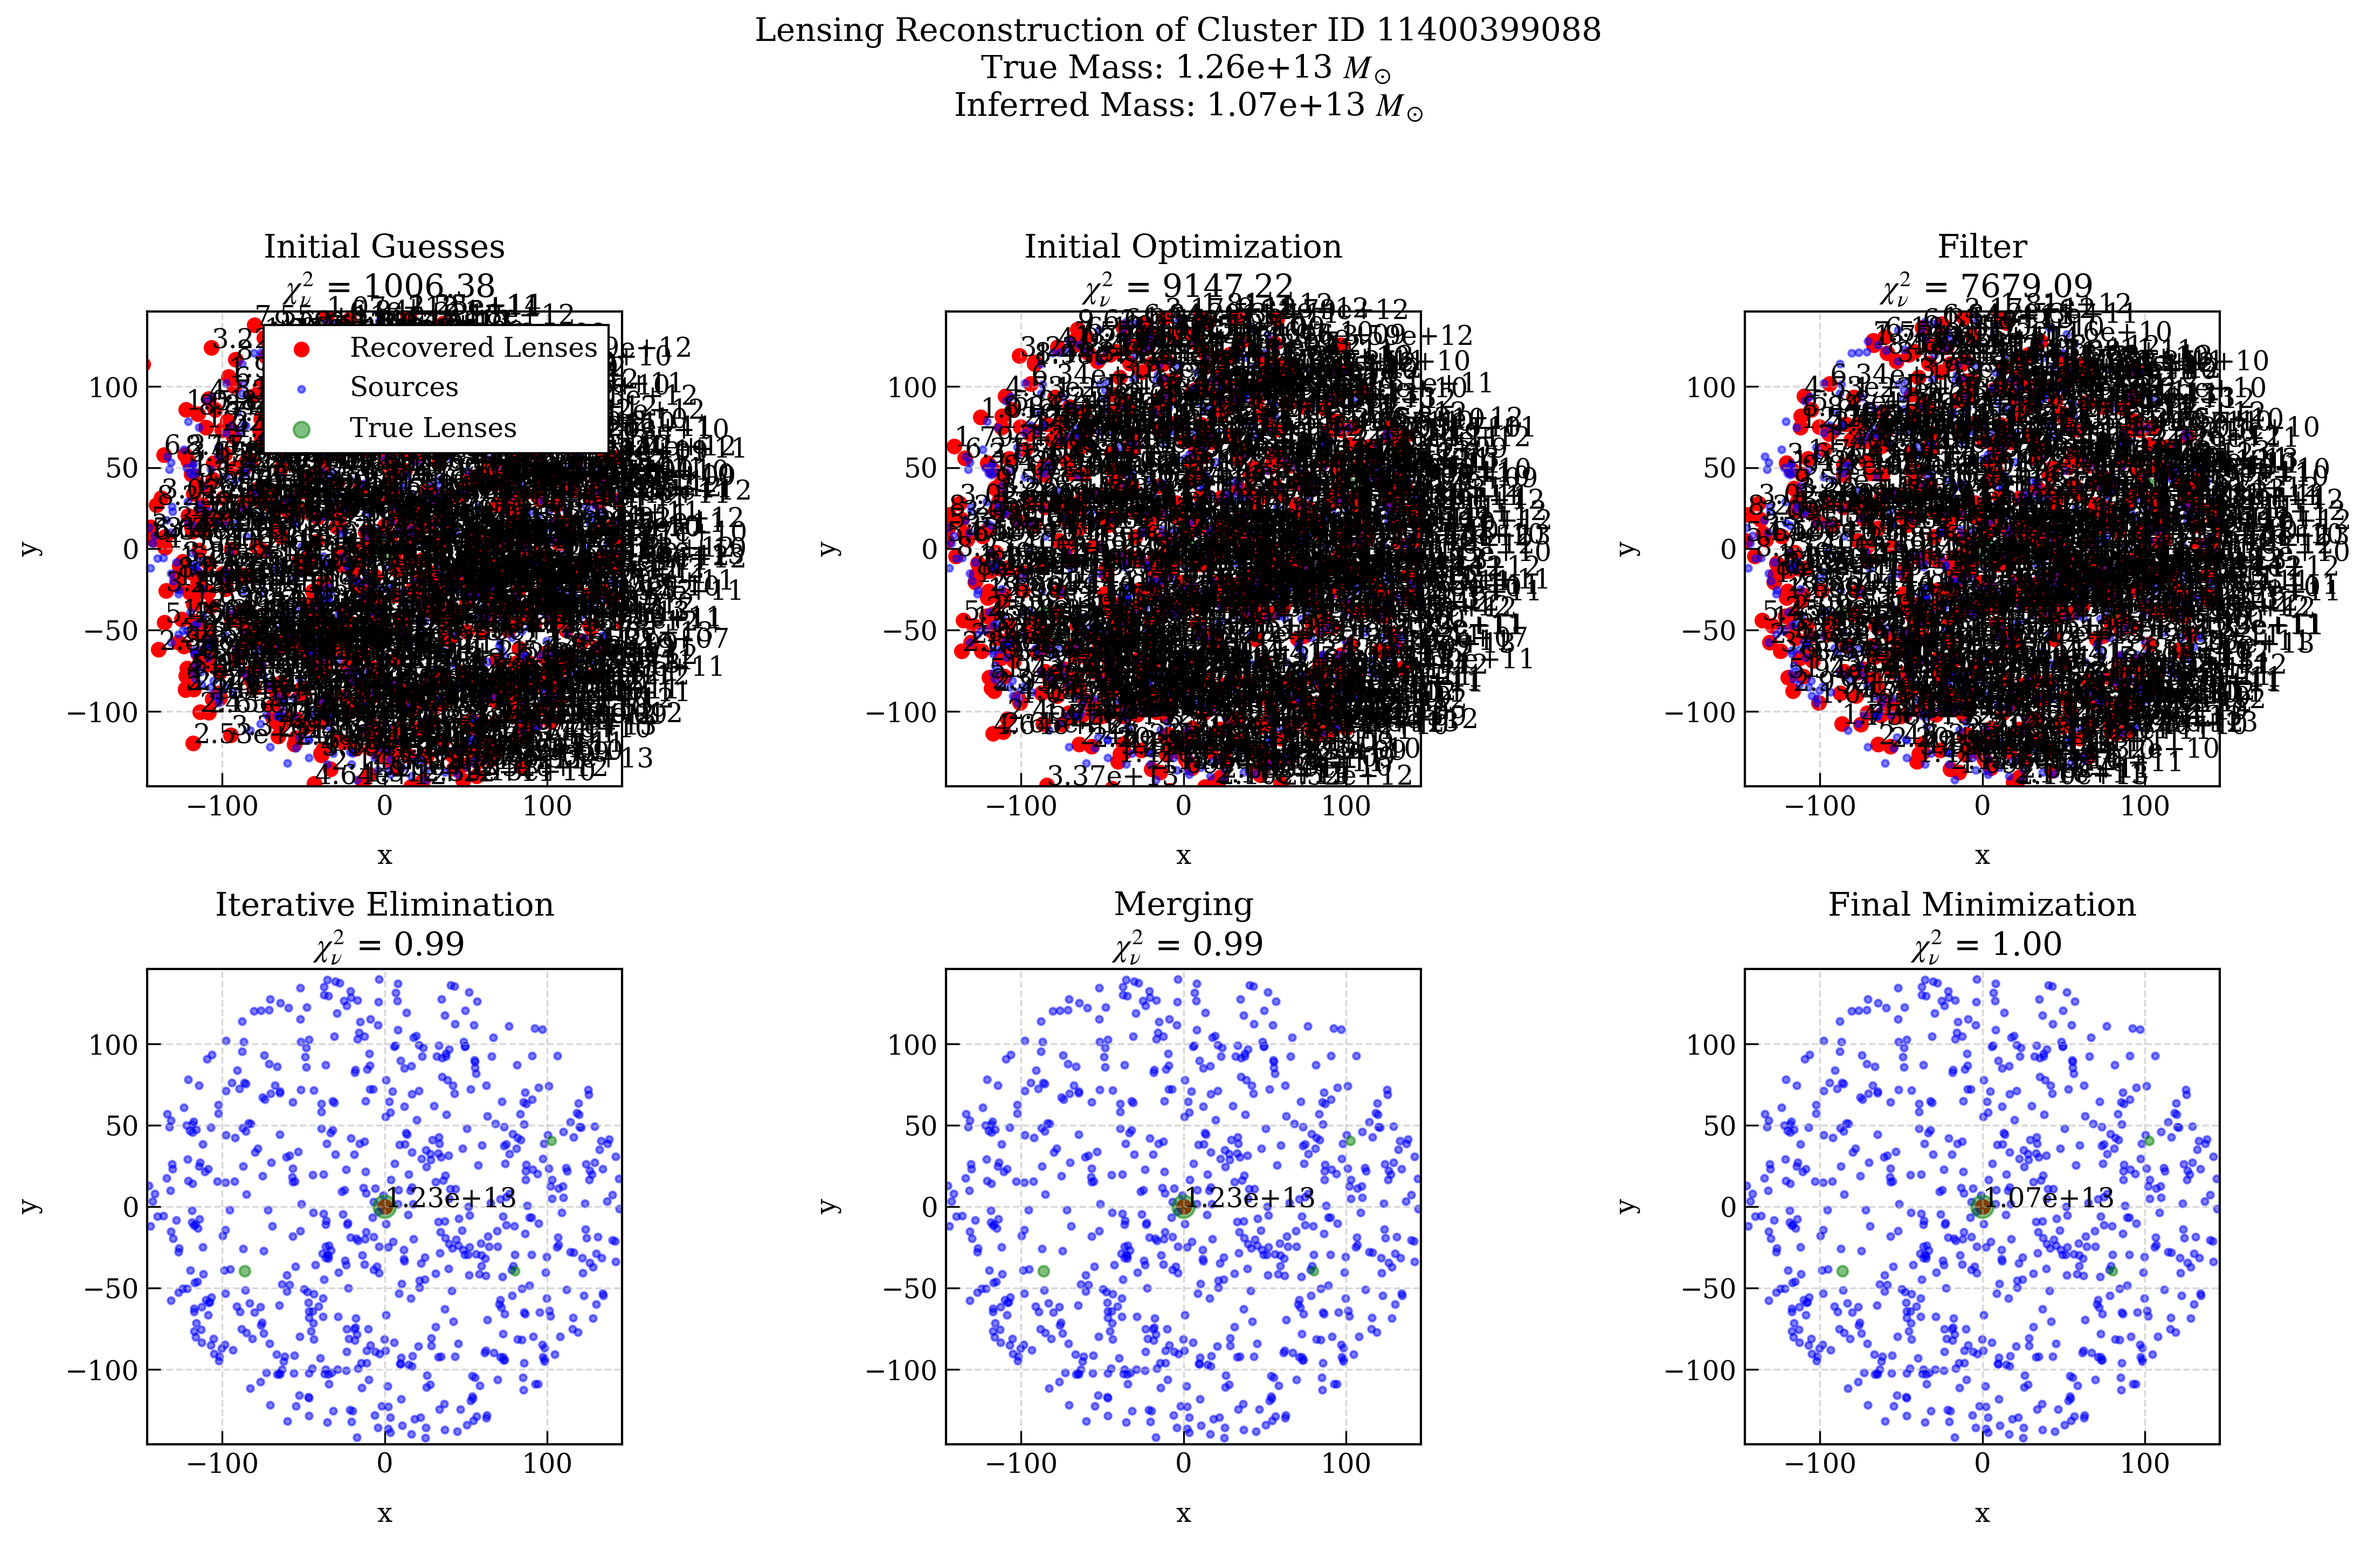
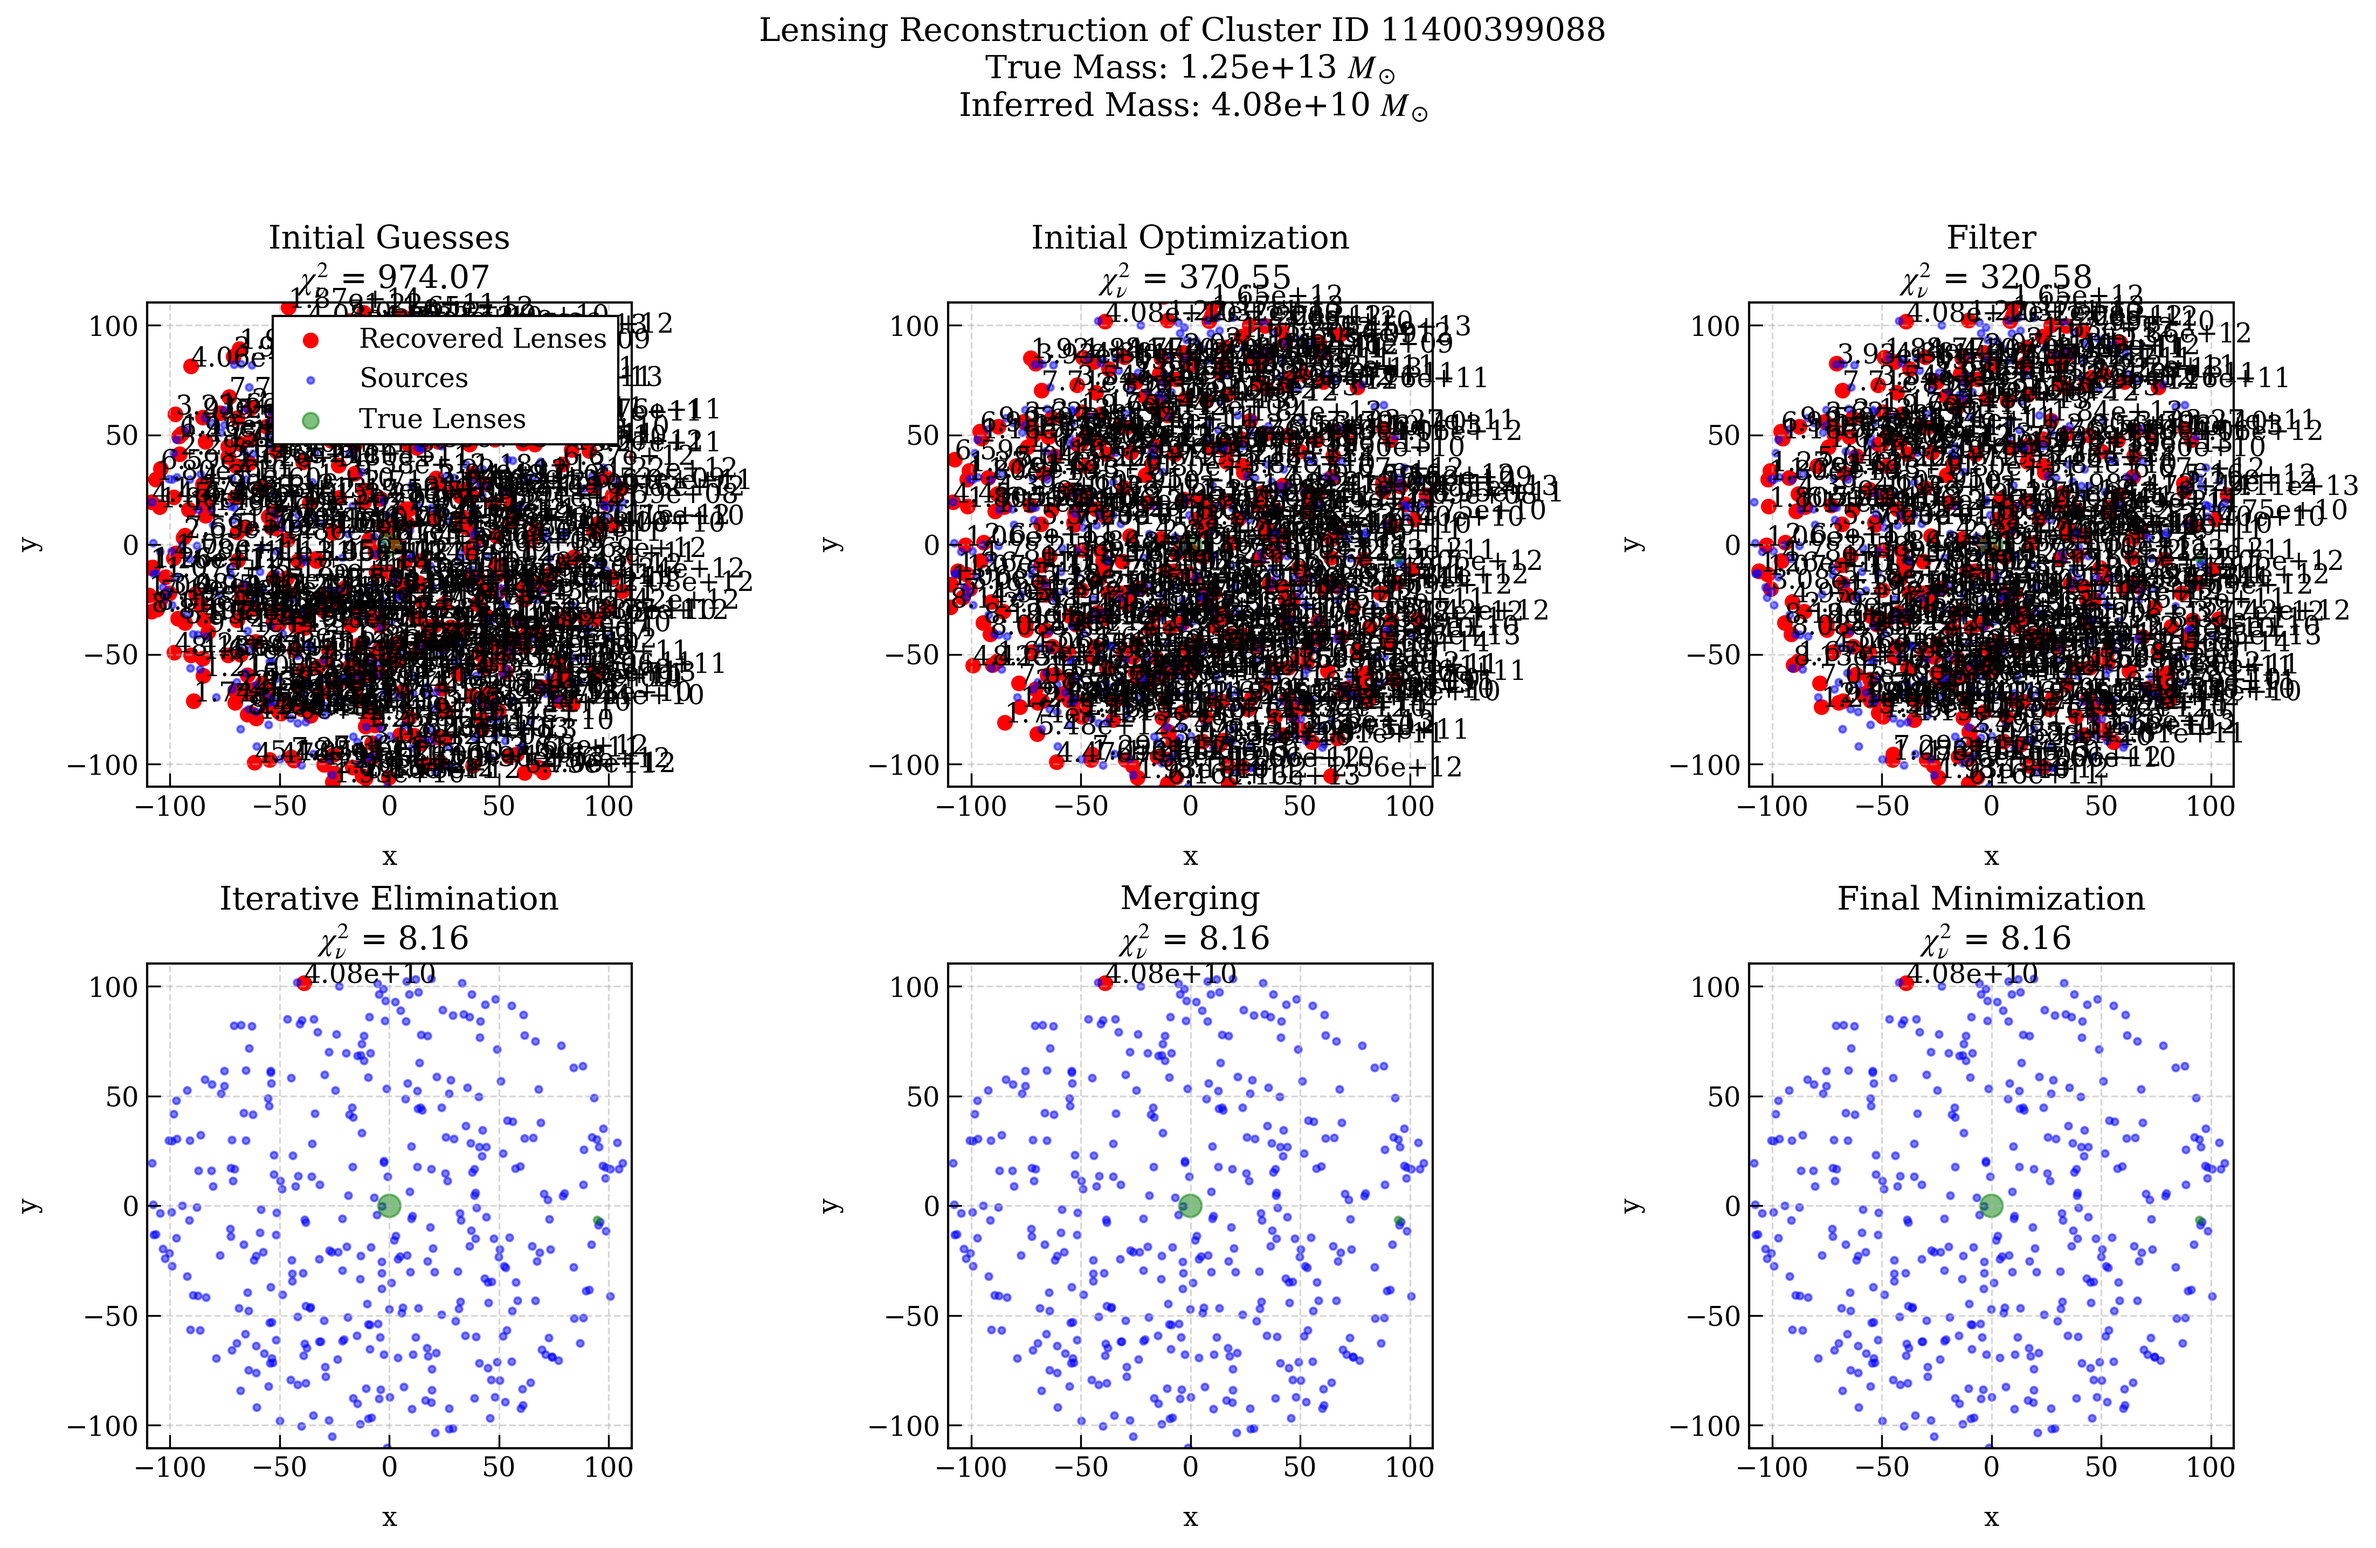
Correction to nfw flexion

diff --git a/mdark.py b/mdark.py
@@ -157,13 +157,22 @@ class Halo:
             best_result = None
             best_params = guess
             for _ in range(max_attempts):
+                
+                result = opt.minimize(
+                    chi2wrapper3, guess, args=([one_source, use_flags, self.concentration[i], self.redshift]), 
+                    method='Nelder-Mead', 
+                    tol=1e-8, 
+                    options={'maxiter': 1000}
+                )
+                '''
+                # Lets try a BFGS method, to avoid getting stuck in local minima
                 result = opt.minimize(
                     chi2wrapper3, guess, args=([one_source, use_flags, self.concentration[i], self.redshift]), 
                     method='BFGS', 
                     tol=1e-8, 
                     options={'maxiter': 1000}
                 )
-
+                '''
                 if best_result is None or result.fun < best_result.fun:
                     best_result = result
                     best_params = result.x
@@ -1040,11 +1049,18 @@ def visualize_fits(ID_file, lensing_type='NFW'):
     for ID in IDs:
         global_start = time.time()
         halo = halos[ID]
+        # Simplify for tests - lets just look at the 3 largest halos
+        indices = np.argsort(halo.mass)[::-1][:3]
+        halo.x = halo.x[indices]
+        halo.y = halo.y[indices]
+        halo.mass = halo.mass[indices]
+        halo.z = halo.z[indices]
+        halo.concentration = halo.concentration[indices]
+        
         _, sources, xmax = build_lensing_field(halo, zs[0])
         print('Built lenses and sources...')
 
         # Copy the halo object, so that one can be altered without affecting the other
-        import copy
         lenses = copy.deepcopy(halo)
 
         # Arrange a plot with 6 subplots in 2 rows
@@ -1064,7 +1080,7 @@ def visualize_fits(ID_file, lensing_type='NFW'):
         eR = 2 * shear * r
 
         Dl, Ds, Dls = utils.angular_diameter_distances(zs[0], 0.8)
-        mass = (eR/206265)**2 * (Ds * Dl / Dls) / (4 * G * M_solar) * c**2
+        mass = (eR/206265)**2 * (Ds * Dl / Dls) * c**2 / (4 * G * M_solar) * 10**3
         lenses = Halo(xl, yl, np.zeros_like(xl), np.zeros_like(xl), mass, zs[0], np.zeros_like(xl))
         lenses.calculate_concentration()
 
@@ -1104,11 +1120,11 @@ def visualize_fits(ID_file, lensing_type='NFW'):
         # This ensures that the true answers are present, which means that the pipeline should find them
         # If it doesn't, then the step is broken
         # If it does, it means that the step is working as intended, and that the issue with the pipeline is an earlier step
-        lenses.x = np.concatenate((lenses.x, halo.x))
-        lenses.y = np.concatenate((lenses.y, halo.y))
-        lenses.mass = np.concatenate((lenses.mass, halo.mass))
-        lenses.z = np.concatenate((lenses.z, halo.z))
-        lenses.concentration = np.concatenate((lenses.concentration, halo.concentration))
+        #lenses.x = np.concatenate((lenses.x, halo.x))
+        #lenses.y = np.concatenate((lenses.y, halo.y))
+        #lenses.mass = np.concatenate((lenses.mass, halo.mass))
+        #lenses.z = np.concatenate((lenses.z, halo.z))
+        #lenses.concentration = np.concatenate((lenses.concentration, halo.concentration))
         # Update the chi2 values
         reducedchi2 = lenses.update_chi2_values(sources, use_flags)
         start = time.time()
@@ -1215,38 +1231,60 @@ if __name__ == '__main__':
     # chi2_heatmap()
     # Create a simple system to test this
     xmax = 10
-    xl = np.array([0])
-    yl = np.array([0])
+    xl = np.array([0.0])
+    yl = np.array([0.0])
     mass = np.array([1e14])
     z = 0.2
     halo = Halo(xl, yl, np.zeros_like(xl), np.zeros_like(xl), mass, z, np.zeros_like(xl))
     halo.calculate_concentration()
 
     ns = 0.01
-    Nsource = int(ns * np.pi * (xmax)**2) # Number of sources
-    sources = utils.createSources(halo, Nsource, randompos=True, sigs=0.1, sigf=0.01, sigg=0.02, xmax=xmax, lens_type='NFW')
-
+    # Nsource = int(ns * np.pi * (xmax)**2) # Number of sources
+    Nsource = 1
+    # sources = utils.createSources(halo, Nsource, randompos=True, sigs=0.1, sigf=0.01, sigg=0.02, xmax=xmax, lens_type='NFW')
+    xs = np.array([5.0])
+    ys = np.array([5.0])
+    sources = pipeline.Source(xs, ys, 
+                              np.zeros_like(xs), np.zeros_like(xs), 
+                              np.zeros_like(xs), np.zeros_like(xs), 
+                              np.zeros_like(xs), np.zeros_like(xs), 
+                              np.ones(len(xs)) * 0.1, np.ones(len(xs)) * 0.01, np.ones(len(xs)) * 0.02)
+    sources.apply_NFW_lensing(halo)
     true_chi2 = halo.update_chi2_values(sources, [True, True, False])
     print('True chi2: {}'.format(true_chi2))
+
+    # Build the guessed lenses
+    shear = np.sqrt(sources.e1**2 + sources.e2**2)
+    flexion = np.sqrt(sources.f1**2 + sources.f2**2)
+    r = shear / flexion
+    phi = np.arctan2(sources.f2, sources.f1)
+    # r is the distance from the source to the lens
+    # phi is the angle pointing from the source to the lens
+    xl = sources.x + r * np.cos(phi)
+    yl = sources.y + r * np.sin(phi)
+    eR = 2 * shear * r
+
+    Dl, Ds, Dls = utils.angular_diameter_distances(z, 0.8)
+    mass = (eR/206265)**2 * (Ds * Dl / Dls) * c**2 / (4 * G * M_solar) * 10**3
+    lenses = Halo(xl, yl, np.zeros_like(xl), np.zeros_like(xl), mass, z, np.zeros_like(xl))
+    lenses.calculate_concentration()
 
     # Okay look, the fail points are the minimization and the lens number selection - the rest is fine (or should be)
     # So let's start with the minimization
     # Place a couple of lenses near the true lenses and see if the minimization gets closer or further away from the true values
-    lenses = copy.deepcopy(halo)
+    # lenses = copy.deepcopy(halo)
     # Now perturb the fit parameters (position and mass)
     # First, the position (correcting for different data types) 
-    lenses.x = xl + np.random.normal(0, 2, len(lenses.x))
-    lenses.y = np.random.normal(0, 2, len(lenses.y))
+    # lenses.x = xl + np.random.normal(0, 2, len(lenses.x))
+    # lenses.y = np.random.normal(0, 2, len(lenses.y))
     # Now the mass
-    lenses.mass += np.random.normal(0, 1e13, len(lenses.mass))
+    # lenses.mass += np.random.normal(0, 1e13, len(lenses.mass))
     chi2 = lenses.update_chi2_values(sources, [True, True, True])
     print('Initial chi2: {}'.format(chi2))
     print('Parameter | True Value | Initial Guess')
     print('x | {} | {}'.format(halo.x, lenses.x))
     print('y | {} | {}'.format(halo.y, lenses.y))
     print('Mass | {} | {}'.format(halo.mass, lenses.mass))
-    x_guess = copy.deepcopy(lenses.x)
-    y_guess = copy.deepcopy(lenses.y)
 
     # Now run the minimization
     use_flags = [True, True, True]
@@ -1260,8 +1298,11 @@ if __name__ == '__main__':
     # Now plot the results
     plt.figure()
     plt.scatter(halo.x, halo.y, color='red', label='True Lenses')
-    plt.scatter(x_guess, y_guess, color='blue', label='Initial Guess')
+    plt.scatter(xl, yl, color='blue', label='Initial Guess')
     plt.scatter(lenses.x, lenses.y, color='blue', marker='x', label='Minimized Lenses')
+    plt.scatter(sources.x, sources.y, color='green', marker='.', label='Sources')
+    # Create a flexion vector pointing from the source to the lens
+    plt.quiver(sources.x, sources.y, sources.f1, sources.f2, color='green', label='Source Flexion')
     plt.xlim(-xmax, xmax)
     plt.ylim(-xmax, xmax)
     plt.legend()

diff --git a/pipeline.py b/pipeline.py
@@ -197,8 +197,8 @@ class Source:
 
         self.e1 += np.sum(shear_mag * cos2phi, axis=0)
         self.e2 += np.sum(shear_mag * sin2phi, axis=0)
-        self.f1 += np.sum(flexion_mag * cos3phi, axis=0)
-        self.f2 += np.sum(flexion_mag * sin3phi, axis=0)
+        self.f1 += np.sum(flexion_mag * cos_phi, axis=0)
+        self.f2 += np.sum(flexion_mag * sin_phi, axis=0)
         self.g1 += np.sum(g_flexion_mag * cos3phi, axis=0)
         self.g2 += np.sum(g_flexion_mag * sin3phi, axis=0)
 
